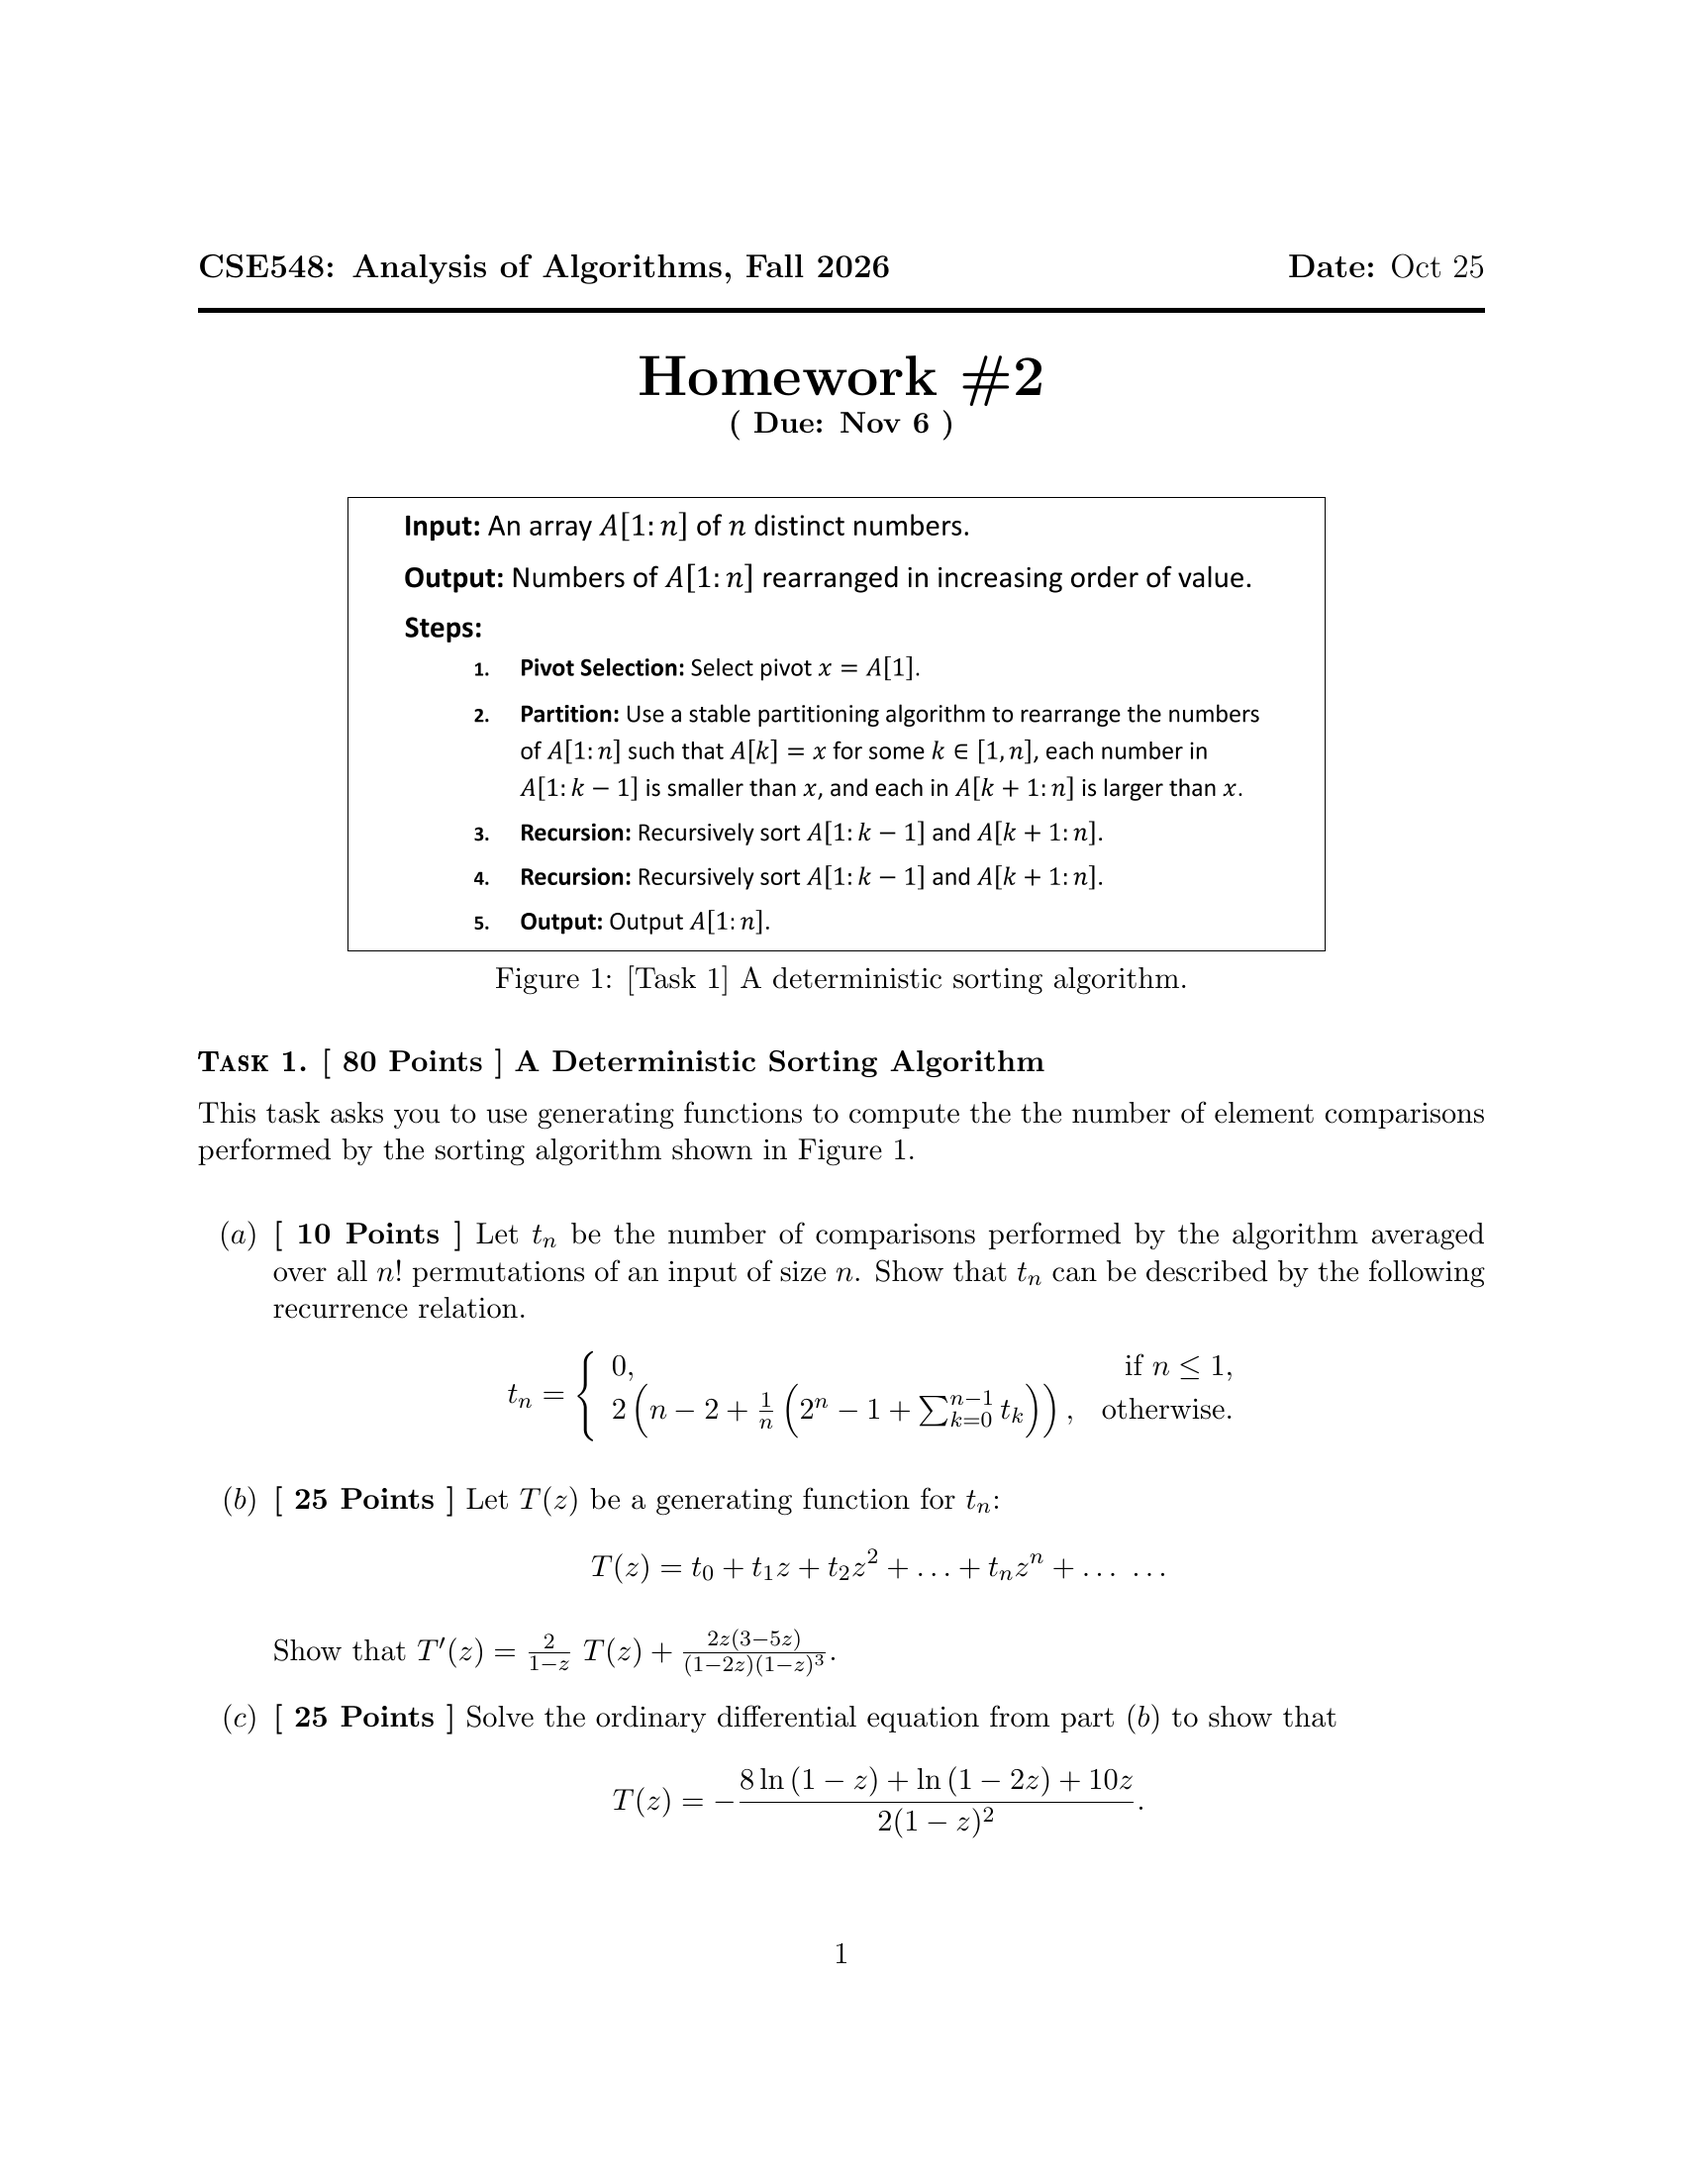
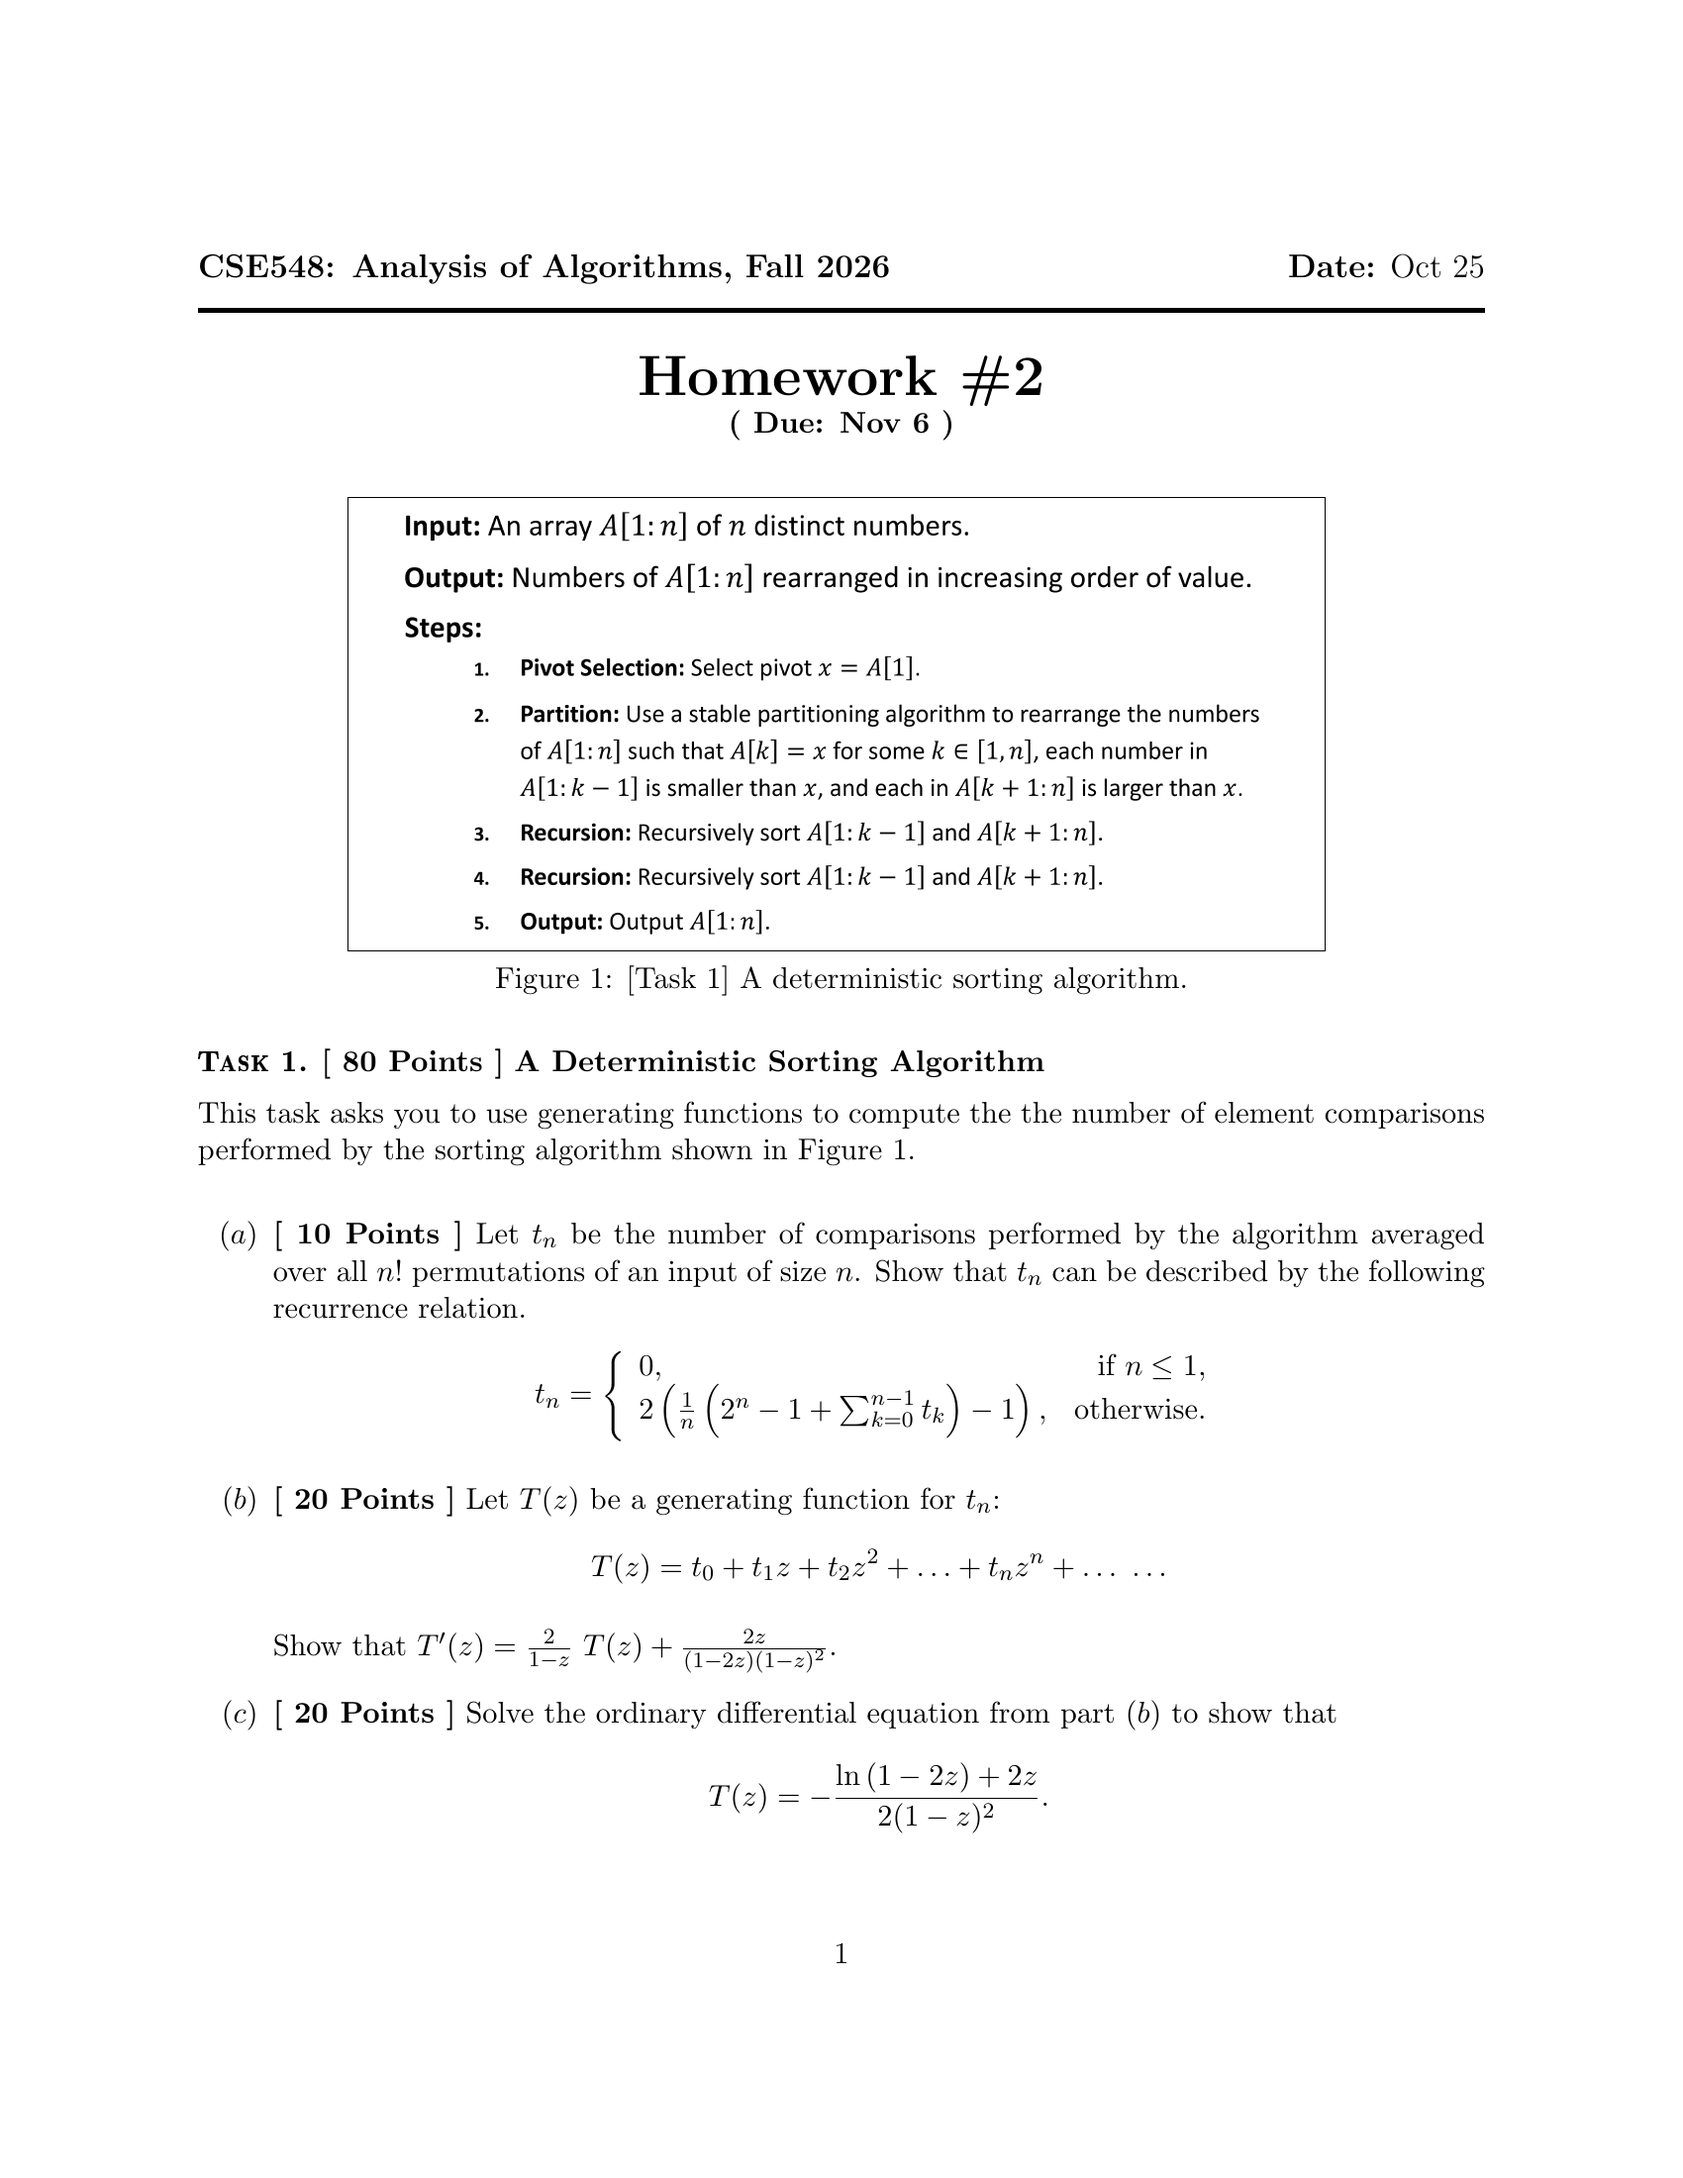
new task 1

diff --git a/HW2/HW2_Lichen_Yang.tex b/HW2/HW2_Lichen_Yang.tex
@@ -138,8 +138,8 @@ Number        &  (e.g., specific group member? specific task/subtask?) \\ \hline
 \newpage
 \section*{Task 1. A Deterministic Sorting Algorithm}
 
-\textbf{(a)} Under the standard partition cost of $n-1$ comparisons,
-the stated recurrence has an error. Let $s_n$ be the
+\textbf{(a)} A stable partition compares each nonpivot element with the
+pivot once, costing $n-1$ comparisons. Let $s_n$ be the
 cost on an already sorted input. Stability leaves both parts sorted, so
 \[
 s_0=s_1=0,\qquad s_n=2s_{n-1}+n-1=2^n-n-1\quad(n\geq 1).
@@ -156,14 +156,11 @@ t_n&=n-1+\frac1n\sum_{k=0}^{n-1}
 &=-2+\frac2n\left(2^n-1+\sum_{k=0}^{n-1}t_k\right),
 \end{align*}
 with $t_0=t_1=0$.
-The requested right-hand side exceeds this by $2(n-1)$: already at
-$n=2$, the algorithm uses one comparison, whereas the stated recurrence
-gives three. Thus it cannot be proved under this comparison model.
-Parts (b)--(d) below use the \emph{stated recurrence}, as requested.
+This is exactly the required recurrence.
 
-\textbf{(b)} Multiplying the stated recurrence by $n$ gives
+\textbf{(b)} Multiplying the recurrence by $n$ gives
 \[
-nt_n=2n(n-2)+2(2^n-1)+2\sum_{k=0}^{n-1}t_k
+nt_n=-2n+2(2^n-1)+2\sum_{k=0}^{n-1}t_k
 \qquad(n\geq2).
 \]
 Multiply by $z^{n-1}$ and sum over $n\geq2$. Since $t_0=t_1=0$,
@@ -177,15 +174,12 @@ the sums to obtain
 \]
 Differentiating the geometric series gives
 \[
-\sum_{n\geq1}nz^{n-1}=\frac1{(1-z)^2},\qquad
-\sum_{n\geq1}n^2z^{n-1}=\frac{1+z}{(1-z)^3}.
+\sum_{n\geq1}nz^{n-1}=\frac1{(1-z)^2}.
 \]
 Removing the $n=1$ terms, we get
 \begin{align*}
-\sum_{n\geq2}n(n-2)z^{n-1}
-&=\left(\frac{1+z}{(1-z)^3}-1\right)
- -2\left(\frac1{(1-z)^2}-1\right)\\
-&=\frac{1+z}{(1-z)^3}-\frac2{(1-z)^2}+1,\\
+\sum_{n\geq2}nz^{n-1}
+&=\frac1{(1-z)^2}-1,\\
 \sum_{n\geq2}(2^n-1)z^{n-1}
 &=\frac{4z}{1-2z}-\frac{z}{1-z}
 =\frac2{1-2z}-\frac1{1-z}-1.
@@ -193,56 +187,53 @@ Removing the $n=1$ terms, we get
 Substituting these identities and combining fractions yields
 \begin{align*}
 T'(z)&=\frac{2T(z)}{1-z}
- +2\left(\frac{1+z}{(1-z)^3}-\frac2{(1-z)^2}+1\right)
+ -2\left(\frac1{(1-z)^2}-1\right)
  +2\left(\frac2{1-2z}-\frac1{1-z}-1\right)\\
-&=\frac{2T(z)}{1-z}
- +\frac{2\bigl((-2+5z-z^2)(1-2z)+2(1-z)^3\bigr)}
- {(1-2z)(1-z)^3}\\
-&=\frac{2}{1-z}T(z)+\frac{2z(3-5z)}{(1-2z)(1-z)^3}.
+&=\frac{2}{1-z}T(z)+\frac{2z}{(1-2z)(1-z)^2}.
 \end{align*}
 
 \textbf{(c)} The integrating factor is $(1-z)^2$. Thus
 \[
 \bigl((1-z)^2T(z)\bigr)'
-=\frac{2z(3-5z)}{(1-2z)(1-z)}
-=\frac4{1-z}+\frac1{1-2z}-5.
+=\frac{2z}{1-2z}=\frac1{1-2z}-1.
 \]
 Integrating and using $T(0)=0$ gives
 \[
-\boxed{T(z)=-\frac{8\ln(1-z)+\ln(1-2z)+10z}{2(1-z)^2}.}
+\boxed{T(z)=-\frac{\ln(1-2z)+2z}{2(1-z)^2}.}
 \]
 
-\textbf{(d)} Write $H_n=\sum_{k=1}^n1/k$. Extracting coefficients in (c),
+\textbf{(d)} Using $-\ln(1-2z)=\sum_{k\geq1}2^kz^k/k$ and
+$(1-z)^{-2}=\sum_{j\geq0}(j+1)z^j$, extract coefficients in (c):
 \begin{align*}
 t_n
-&=4\bigl((n+1)H_n-n\bigr)
- +\frac12\sum_{k=1}^n\frac{(n-k+1)2^k}{k}-5n\\
-&=4(n+1)H_n-9n+1
- +\underbrace{\left(\frac{n+1}{2}\sum_{k=1}^n\frac{2^k}{k}
- -2^{n+1}\right)}_{E_n}.
+&=\frac12\sum_{k=1}^n\frac{(n-k+1)2^k}{k}-n\\
+&=\frac{n+1}{2}\sum_{k=1}^n\frac{2^k}{k}
+ -\frac12\sum_{k=1}^n2^k-n\\
+&=\boxed{\frac{n+1}{2}\sum_{k=1}^n\frac{2^k}{k}-2^n-n+1.}
 \end{align*}
-To expand the exponential term, set $j=n-k$:
+
+\textbf{(e)} Set $j=n-k$ to obtain
 \[
 \sum_{k=1}^n\frac{2^k}{k}
 =\frac{2^n}{n}\sum_{j=0}^{n-1}\frac{2^{-j}}{1-j/n}
-=\frac{2^{n+1}}n\left(1+\frac1n+\frac3{n^2}
- +\frac{13}{n^3}+\frac{75}{n^4}+O(n^{-5})\right).
+=\frac{2^n}{n}\left(\sum_{r=0}^7\frac{M_r}{n^r}+O(n^{-8})\right),
+\qquad M_r=\sum_{j\geq0}j^r2^{-j}.
 \]
-Indeed, the moments $\sum_{j\geq0}j^r2^{-j}$ for $r=0,1,2,3,4$ are
-$2,2,6,26,150$, obtained by repeatedly applying $x\,d/dx$ to $(1-x)^{-1}$
-at $x=1/2$. Expand $(1-j/n)^{-1}$ through degree four for $j\leq n/2$;
-the remainder sums to $O(n^{-5})$, and the remaining tail is exponentially
-small. Substitution yields
+For $j\leq n/2$, expand $(1-j/n)^{-1}$ through degree seven;
+the remainder is at most $2(j/n)^8$, whose weighted sum is $O(n^{-8})$.
+The tail $j>n/2$ and the tails of the moment sums are exponentially small
+times polynomial factors, so they are also $O(n^{-8})$.
+Repeatedly applying $x\,d/dx$ to $(1-x)^{-1}$ at $x=1/2$ gives
 \[
-E_n=\frac{2^{n+1}}n\left(1+\frac2n+\frac8{n^2}
- +\frac{44}{n^3}+O(n^{-4})\right).
+(M_0,\ldots,M_7)=(2,2,6,26,150,1082,9366,94586).
 \]
-Finally, $H_n=\ln n+\gamma+O(1/n)$. Its resulting $O(1)$ contribution
-is absorbed by the displayed $O(2^n/n^5)$ remainder, giving
+Substitute into (d). The constant exponential term cancels $2^n$;
+the coefficient of $n^{-r}$ inside the parentheses below is
+$(M_r+M_{r+1})/4$ for $0\leq r\leq6$. Therefore
 \[
 \boxed{t_n=\frac{2^{n+1}}n\left(1+\frac2n+\frac8{n^2}
- +\frac{44}{n^3}+O(n^{-4})\right)
- +4(n+1)(\ln n+\gamma)-9n+1.}
+ +\frac{44}{n^3}+\frac{308}{n^4}+\frac{2612}{n^5}
+ +\frac{25988}{n^6}+O(n^{-7})\right)-n+1.}
 \]
 
 \newpage
